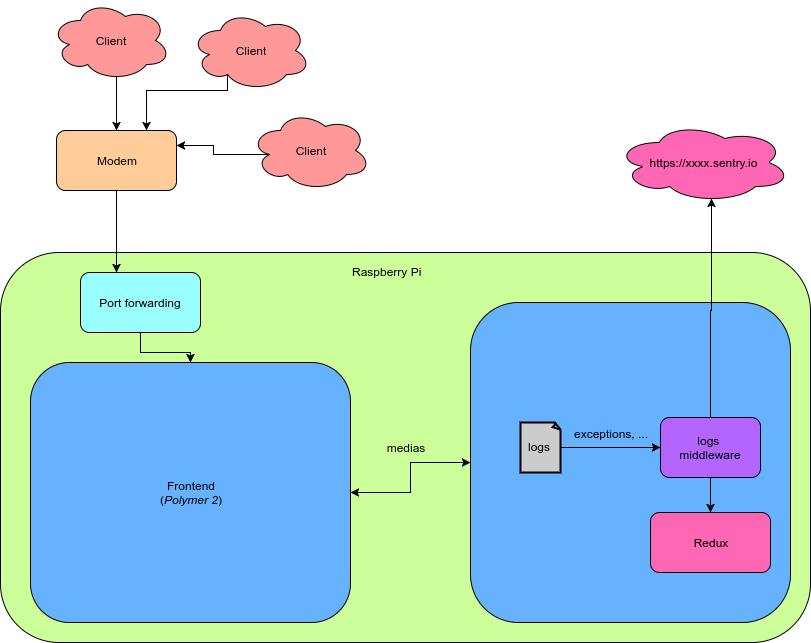
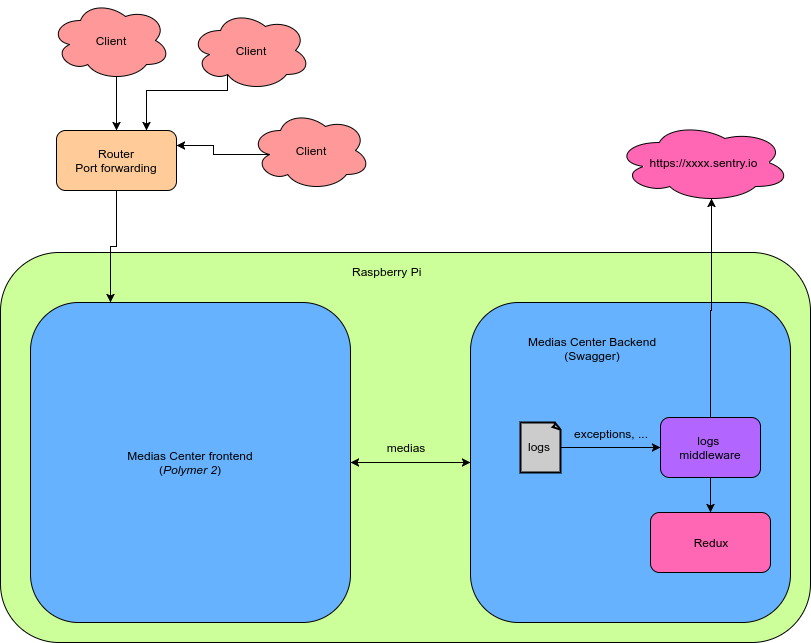
Update README

diff --git a/README.md b/README.md
@@ -23,7 +23,9 @@ Stay tuned!
         - [1.3.8. Tests and code coverage](#138-tests-and-code-coverage)
     - [1.4. Known issues](#14-known-issues)
     - [1.5. Improvements](#15-improvements)
-    - [1.6. Resources](#16-resources)
+    - [1.6. Contributing](#16-contributing)
+    - [1.7. License](#17-license)
+    - [1.8. Resources](#18-resources)
 
 <!-- /TOC -->
 
@@ -43,7 +45,15 @@ cd backend && npm run start
 
 ## 1.2. Functional
 
-__TODO__: Add draw graphic here and some explanations
+To set the context, this project has been delivered on a private Raspberry Pi. The following content will try to explain how does it work.
+
+1. When requesting the application with its IP address, you'll request a router which, with port forwarding, will forward the request until the Raspberry Pi and the correct port.
+1. You'll find the frontend loading the resources (the medias) by sending a GET request to the backend.
+1. The backend will read the folder containing medias to get all the necessary information and fetch it to the frontend.
+1. If an error is raised up, the backend will send it to a Sentry.io dashboard to be able to sum up efficiently received error logs.
+1. To be able to reproduce errors situation and fix it, data will be fetched to a Redux store too.
+
+Here a schema for a better comprehension of the workflow.
 
 ![Schema Medias Center structure](./Schema_Medias_Center_structure.png "Schema Medias Center structure")
 
@@ -51,19 +61,47 @@ __TODO__: Add draw graphic here and some explanations
 
 ### 1.3.1. Prerequisites
 
-__TODO__: Needs to be completed
+You'll need
+
+- git: To clone the project
+- nodejs/npm: To run scripts
+- docker-compose (docker-compose.yml v3 --> Docker Engine Release > 1.13.0 +): To run app through containers (in a future version)
 
 ### 1.3.2. Development
 
-__TODO__: Needs to be completed
-
 #### 1.3.2.1. Standalone
 
-__TODO__: Needs to be completed
+If you want to run the app in a _dev_ mode __without__ Docker, clone the project
+
+```shell
+git clone [-b branch-name] git@github.com:gigouni/polymer2-medias-center.git
+```
+
+and run the app in two phases
+
+```shell
+# Run the frontend (in a first terminal window)
+cd frontend && npm run start
+
+# Run backend (in another terminal window)
+cd backend && npm run start
+```
+
+Just edit the source code and re-run ̀```npm run start``` if necessary.
 
 #### 1.3.2.2. Docker
 
-__TODO__: Needs to be completed
+If you want to run the app in a _dev_ mode __with__ Docker, clone the project
+
+```shell
+git clone [-b branch-name] git@github.com:gigouni/polymer2-medias-center.git
+```
+
+and run the app (__not implemented yet__)
+
+```shell
+docker-compose up -d
+```
 
 ### 1.3.3. Delivery
 
@@ -99,6 +137,14 @@ __TODO__: Needs to be completed
 
 __TODO__: Needs to be completed
 
-## 1.6. Resources
+## 1.6. Contributing
 
-- Videos: [www.divx.com/en/devices/profiles/video](www.divx.com/en/devices/profiles/video) & [http://techslides.com/sample-webm-ogg-and-mp4-video-files-for-html5](http://techslides.com/sample-webm-ogg-and-mp4-video-files-for-html5)
+No __direct__ contribution needed. But you can still submit [issues here](https://github.com/gigouni/polymer2-medias-center/issues) and [pull requests here](https://github.com/gigouni/polymer2-medias-center/pulls).
+
+## 1.7. License
+
+See [LICENSE](./LICENSE).
+
+## 1.8. Resources
+
+- Videos samples: [www.divx.com/en/devices/profiles/video](www.divx.com/en/devices/profiles/video) & [http://techslides.com/sample-webm-ogg-and-mp4-video-files-for-html5](http://techslides.com/sample-webm-ogg-and-mp4-video-files-for-html5)
